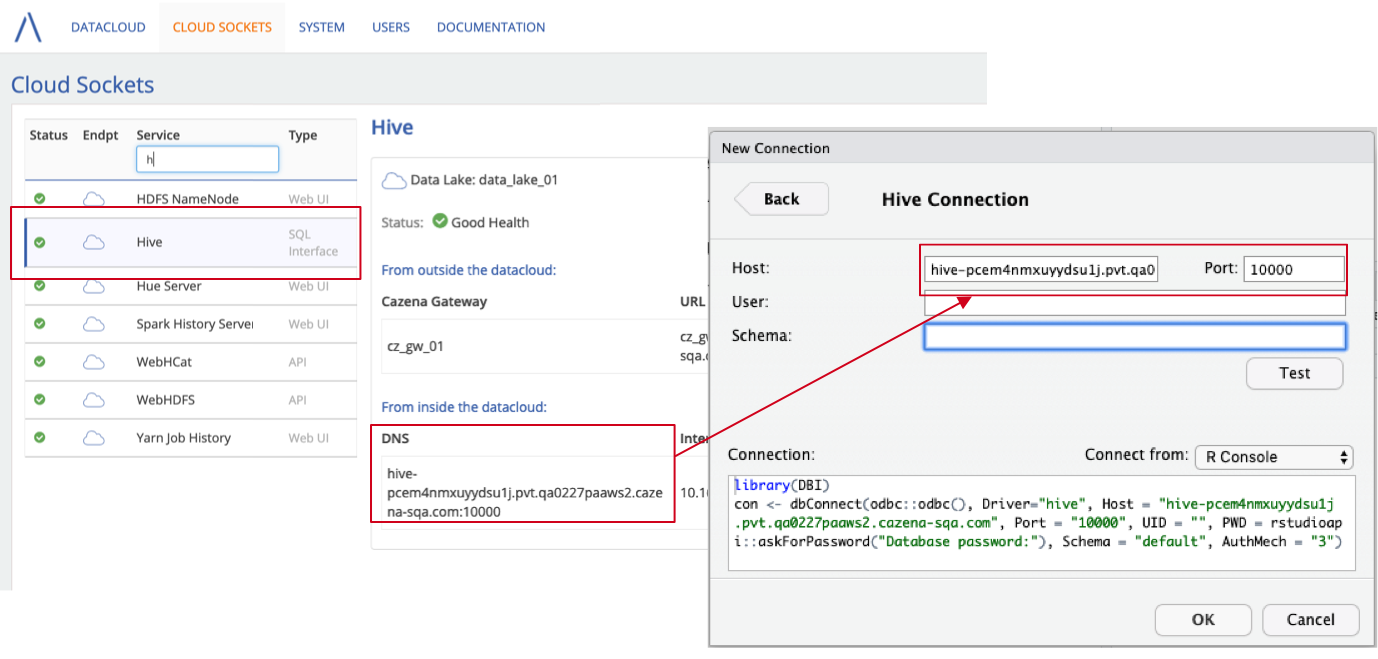
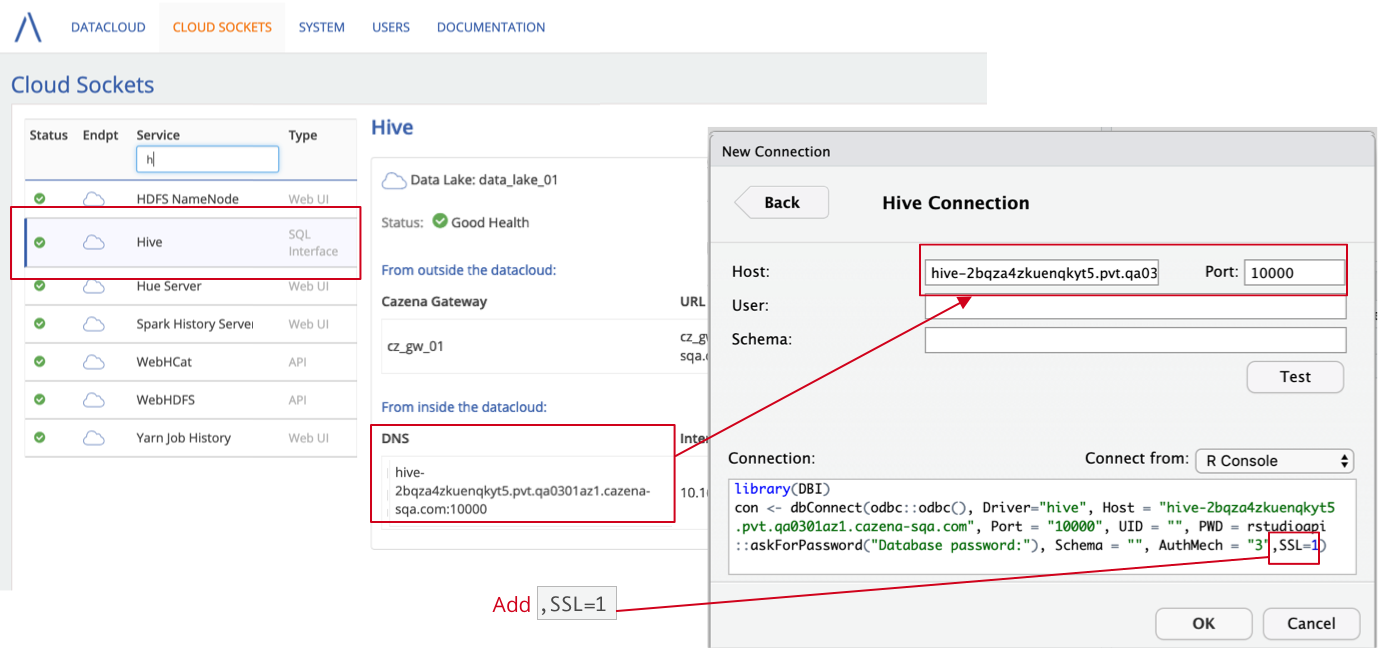
Correction in Cloud Sockets section from Monas

diff --git a/_site/index.html b/_site/index.html
@@ -144,6 +144,7 @@
 <ol>
   <li>In the Cazena console, on the <strong>Cloud Sockets</strong> tab, select <strong>Hive</strong> (or Impala) on the left side of the screen.</li>
   <li>Copy the DNS address and port from the right side of the screen, then paste them into the Connection Pane in RStudio.</li>
+  <li>Add <code class="highlighter-rouge">,SSL=1</code> to the connection string, before the final parentheses.</li>
 </ol>
 
 <p><img src="assets/documentation/cloud_sockets/hive_connection.png" alt=" Hive Connection " title="Hive Connection" /></p>
@@ -313,7 +314,7 @@ HIVE_HOME=/opt/cloudera/parcels/CDH/lib/hive
 <p class="step">Step 1: Copy the IP Address and Port for MPP SQL</p>
 
 <ol>
-  <li>IN the Cazena console: From the <strong>Cloud Sockets</strong> tab, select <strong>MPP SQL</strong> on the left side of the screen.</li>
+  <li>In the Cazena console: From the <strong>Cloud Sockets</strong> tab, select <strong>MPP SQL</strong> on the left side of the screen.</li>
   <li>Under <strong>From inside the datacloud</strong>, copy the <strong>Internal IP:Port</strong> address and port.</li>
 </ol>
 

diff --git a/_sections/cloud_sockets.md b/_sections/cloud_sockets.md
@@ -71,6 +71,7 @@ Step 2: Add the Hostname and Port to the Connection Pane
 
 1. In the Cazena console, on the __Cloud Sockets__ tab, select __Hive__ (or Impala) on the left side of the screen. 
 1. Copy the DNS address and port from the right side of the screen, then paste them into the Connection Pane in RStudio.
+1. Add `,SSL=1` to the connection string, before the final parentheses.
 
 
 ![ Hive Connection ](assets/documentation/cloud_sockets/hive_connection.png "Hive Connection")
@@ -239,7 +240,7 @@ This example shows how to use SQL Workbench to query a database in a data mart.
 Step 1: Copy the IP Address and Port for MPP SQL
 {:.step}
 
-1. IN the Cazena console: From the __Cloud Sockets__ tab, select __MPP SQL__ on the left side of the screen.
+1. In the Cazena console: From the __Cloud Sockets__ tab, select __MPP SQL__ on the left side of the screen.
 1. Under __From inside the datacloud__, copy the __Internal IP:Port__ address and port.
 
 ![ MPP SQL ](assets/documentation/cloud_sockets/mpp_sql.png "MPP SQL")
